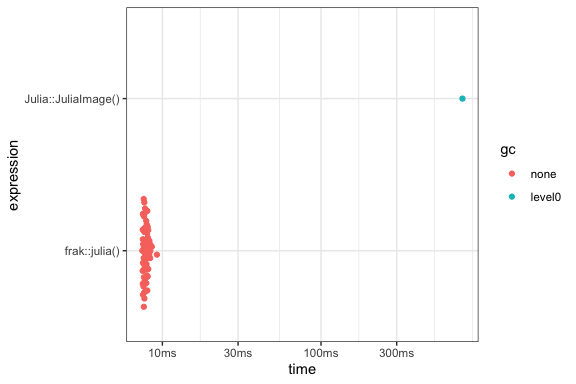
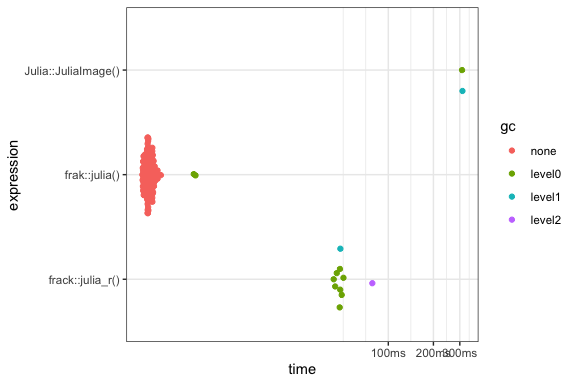
refactoring args

diff --git a/src/julia.c b/src/julia.c
@@ -53,24 +53,31 @@ int default_packed_cols[256] = {
   -1
 };
 
+#define MIN(a,b) (((a)<(b))?(a):(b))
+#define MAX(a,b) (((a)>(b))?(a):(b))
 
 //~~~~~~~~~~~~~~~~~~~~~~~~~~~~~~~~~~~~~~~~~~~~~~~~~~~~~~~~~~~~~~~~~~~~~~~~~~~
 // 
 //~~~~~~~~~~~~~~~~~~~~~~~~~~~~~~~~~~~~~~~~~~~~~~~~~~~~~~~~~~~~~~~~~~~~~~~~~~~
-SEXP julia_(SEXP cx_, SEXP cy_, SEXP movex_, SEXP movey_, SEXP zoom_, SEXP size_, 
-            SEXP max_iter_, SEXP result_, SEXP colors_) {
+SEXP julia_(SEXP c_re_, SEXP c_im_, 
+            SEXP x_, SEXP y_, SEXP zoom_,
+            SEXP width_, SEXP height_, 
+            SEXP max_iter_, 
+            SEXP result_, SEXP colors_) {
 
   int nprotect = 0;
   
-  int size     = Rf_asInteger(size_);
-  double zoom  = Rf_asReal(zoom_);
-  double cx    = Rf_asReal(cx_); // -0.7;
-  double cy    = Rf_asReal(cy_); // 0.27015;
-  double movex = Rf_asReal(movex_);
-  double movey = Rf_asReal(movey_);
-  int max_iter = Rf_asInteger(max_iter_);
+  int width      = Rf_asInteger(width_);
+  int height     = Rf_asInteger(height_);
+  int size       = MAX(width, height);
+  double zoom    = Rf_asReal(zoom_);
+  double c_re    = Rf_asReal(c_re_); // -0.7;
+  double c_im    = Rf_asReal(c_im_); // 0.27015;
+  double x       = Rf_asReal(x_);
+  double y       = Rf_asReal(y_);
+  int max_iter   = Rf_asInteger(max_iter_);
 
-  double idenom = 1.5/(0.5 * zoom * size);
+  double idenom = 2/(0.5 * zoom * size);
 
   int max_iter_count = 1;
 
@@ -80,16 +87,16 @@ SEXP julia_(SEXP cx_, SEXP cy_, SEXP movex_, SEXP movey_, SEXP zoom_, SEXP size_
   }
   int *iter_ptr = iter_count;
 
-  for (int x=0; x < size; x++) {
-    for (int y = 0; y < size; y++) {
-      double zx = (x - size/2) * idenom + movex;
-      double zy = (y - size/2) * idenom + movey;
+  for (int col = 0; col < size; ++col) {
+    for (int row = 0; row < size; ++row) {
+      double re = (col - size/2) * idenom + x;
+      double im = (row - size/2) * idenom + y;
 
       int niter = 0;
-      while( (zx * zx + zy * zy < 4) & (niter < max_iter)) {
-        double tmp = zx * zx - zy * zy + cx;
-        zy = 2 * zx * zy + cy;
-        zx = tmp;
+      while( (re * re + im * im < 4) & (niter < max_iter)) {
+        double tmp = re * re - im * im + c_re;
+        im = 2 * re * im + c_im;
+        re = tmp;
         niter++;
       }
 

diff --git a/src/init.c b/src/init.c
@@ -3,15 +3,15 @@
 #include <R.h>
 #include <Rinternals.h>
 
-extern SEXP julia_(SEXP cx_, SEXP cy_, 
-                   SEXP movex_, SEXP movey_, 
-                   SEXP zoom_, SEXP size_, 
-                   SEXP max_iter_, SEXP result_,
-                   SEXP colors_);
+extern SEXP julia_(SEXP c_re_, SEXP c_im_, 
+                   SEXP x_, SEXP y_, SEXP zoom_,
+                   SEXP width_, SEXP height_, 
+                   SEXP max_iter_, 
+                   SEXP result_, SEXP colors_);
 
 static const R_CallMethodDef CEntries[] = {
   // name    pointer            Num args
-  {"julia_" , (DL_FUNC) &julia_ , 9},
+  {"julia_" , (DL_FUNC) &julia_ , 10},
 
   {NULL , NULL, 0}
 };

diff --git a/README.md b/README.md
@@ -48,8 +48,7 @@ numbers from 0 to 255)
 ``` r
 library(frak)
 
-fractal <- julia(cx = -0.7, cy = 0.27, zoom = 1, size = 400, max_iter = 255)
-mode(fractal) <- 'integer'
+fractal <- julia()
 plot(as.raster(fractal/255))
 ```
 
@@ -61,8 +60,7 @@ plot(as.raster(fractal/255))
 library(viridisLite)
 
 # generate a fractal
-fractal <- julia(cx = -0.74, cy = 0.17, zoom = 3, size = 400, max_iter = 300)
-mode(fractal) <- 'integer'
+fractal <- julia(zoom = 3)
 
 # Grab a palette from viridis
 pal <- rev(viridisLite::viridis(256))
@@ -76,18 +74,7 @@ plot(as.raster(fractal_raster))
 
 <img src="man/figures/README-unnamed-chunk-2-1.png" width="100%" />
 
-## Example with gamma correction
-
-<img src="man/figures/README-unnamed-chunk-3-1.png" width="100%" />
-
-## Example with histogram equalization
-
-Histogram equalization can help enhance the contrast of the result,
-especially if there is a wide variation in iterations across the image.
-
-<img src="man/figures/README-unnamed-chunk-4-1.png" width="100%" />
-
-## Example: git file rendered from multiple frames
+## Example: GIF anim rendered from multiple frames
 
 <details>
 
@@ -97,10 +84,8 @@ Click to show/hide code to generate gif
 </summary>
 
 ``` r
-# install.package('remotes')
 # remotes::install_github('coolbutuseless/displease')
-# remotes::install_github('coolbutuseless/foist')
-library(foist)
+library(fastpng)
 library(displease)
 library(frak)
 
@@ -110,20 +95,20 @@ dir.create('man/figures/anim', showWarnings = FALSE)
 # Use {displease} to get a pleasing motion as the zoom is performed
 #~~~~~~~~~~~~~~~~~~~~~~~~~~~~~~~~~~~~~~~~~~~~~~~~~~~~~~~~~~~~~~~~~~~~~~~~~~~~~
 N <- 100
-zoom <- displease::seq_ease(1, 1000, n = N, type = 'exp-in')
+zoom <- displease::seq_ease(1, 1000, n = N, type = 'exp', direction = 'in')
 
 #~~~~~~~~~~~~~~~~~~~~~~~~~~~~~~~~~~~~~~~~~~~~~~~~~~~~~~~~~~~~~~~~~~~~~~~~~~~~~
 # Loop: create an image dump it to file.
 # Using {foist} here for fast image output
 #~~~~~~~~~~~~~~~~~~~~~~~~~~~~~~~~~~~~~~~~~~~~~~~~~~~~~~~~~~~~~~~~~~~~~~~~~~~~~
 for (i in seq(N)) {
-  frac <- frak::julia(cx = -0.71, zoom = zoom[i], movex = 0.1, equalize = TRUE)
+  frac <- frak::julia(c_re = -0.71, zoom = zoom[i], x = 0.1)
   mode(frac) <- 'integer'
   frac <- frac/255
   
   filename <- sprintf("man/figures/anim/%03i.png", i)
   
-  foist::write_png(
+  fastpng::write_png(
     data                 = frac, 
     filename             = filename, 
     pal                  = foist::vir$magma, 
@@ -168,7 +153,8 @@ size <- 400
 # Julia::JuliaImage does at most 50 iterations
 res <- bench::mark(
   `Julia::JuliaImage()` = Julia::JuliaImage(imageN = size, centre = 0.0, L = 4, C = 1-1.6180339887),
-  `frak::julia()`       = julia(size = size, max_iter = 50),
+  `frak::julia()`       = julia(max_iter = 50),
+  `frack::julia_r()`    = julia_r(max_iter = 50),
   check = FALSE
 )
 #> Warning: Some expressions had a GC in every iteration; so filtering is
@@ -179,10 +165,11 @@ res <- bench::mark(
 
 | expression          |      min |   median |    itr/sec |
 |:--------------------|---------:|---------:|-----------:|
-| Julia::JuliaImage() | 290.03ms | 293.23ms |   3.410346 |
-| frak::julia()       |   3.88ms |   3.96ms | 250.957374 |
+| Julia::JuliaImage() | 310.48ms | 311.48ms |   3.210453 |
+| frak::julia()       |   2.28ms |   2.51ms | 390.460931 |
+| frack::julia_r()    |  43.23ms |  47.67ms |  19.972469 |
 
-<img src="man/figures/README-unnamed-chunk-8-1.png" width="100%" />
+<img src="man/figures/README-unnamed-chunk-6-1.png" width="100%" />
 
 ## Related Software
 
